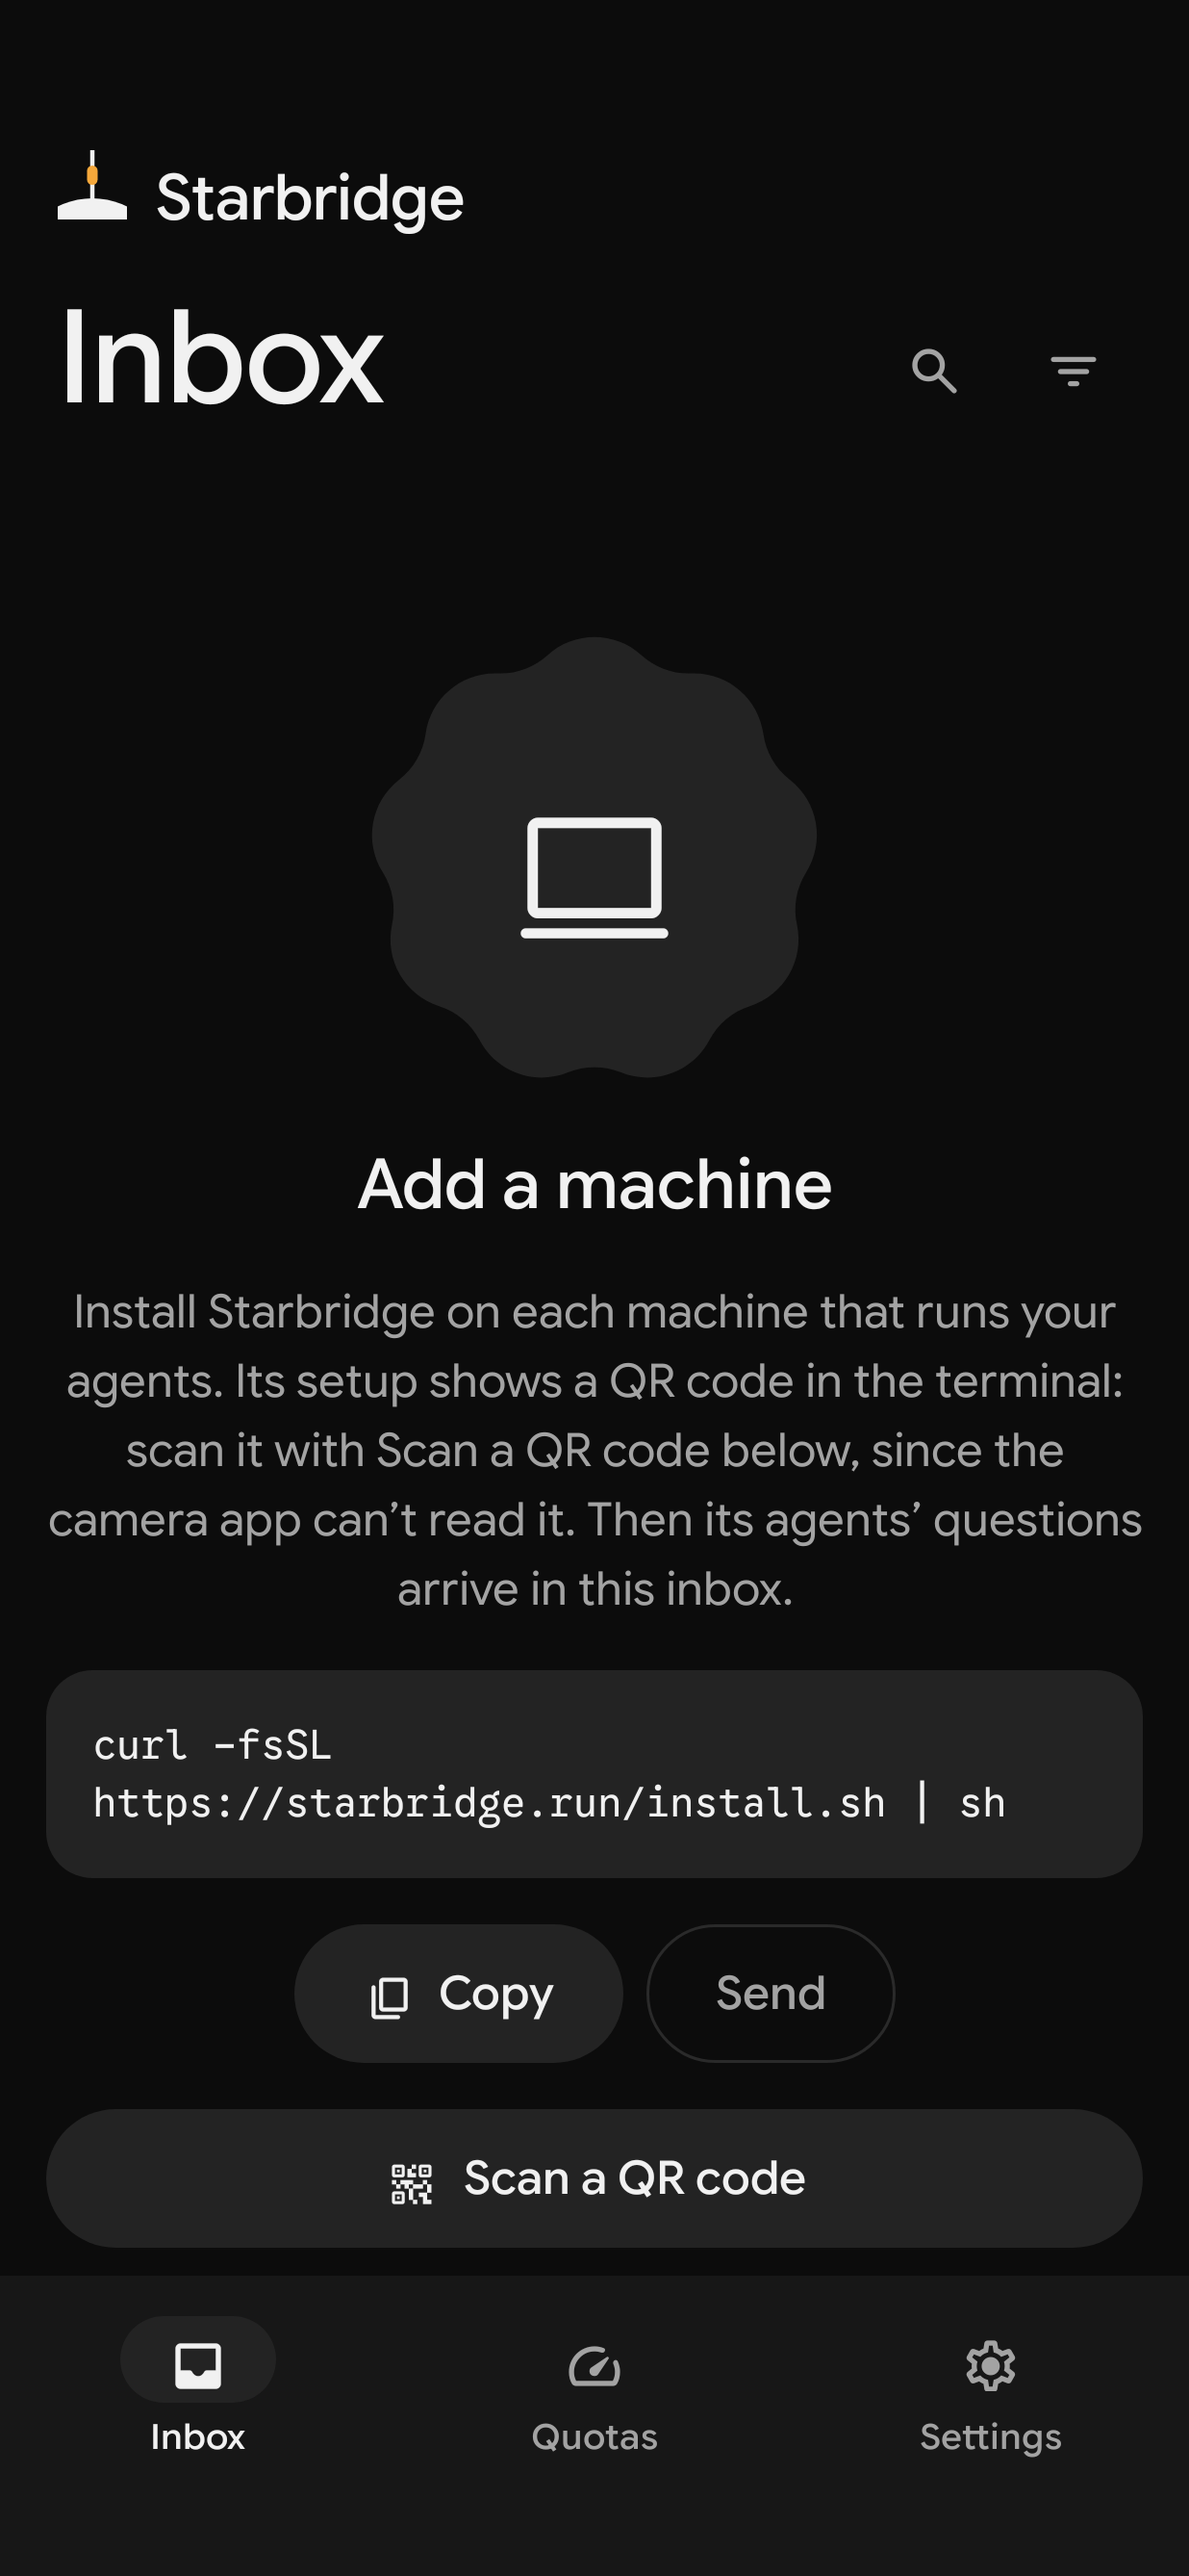
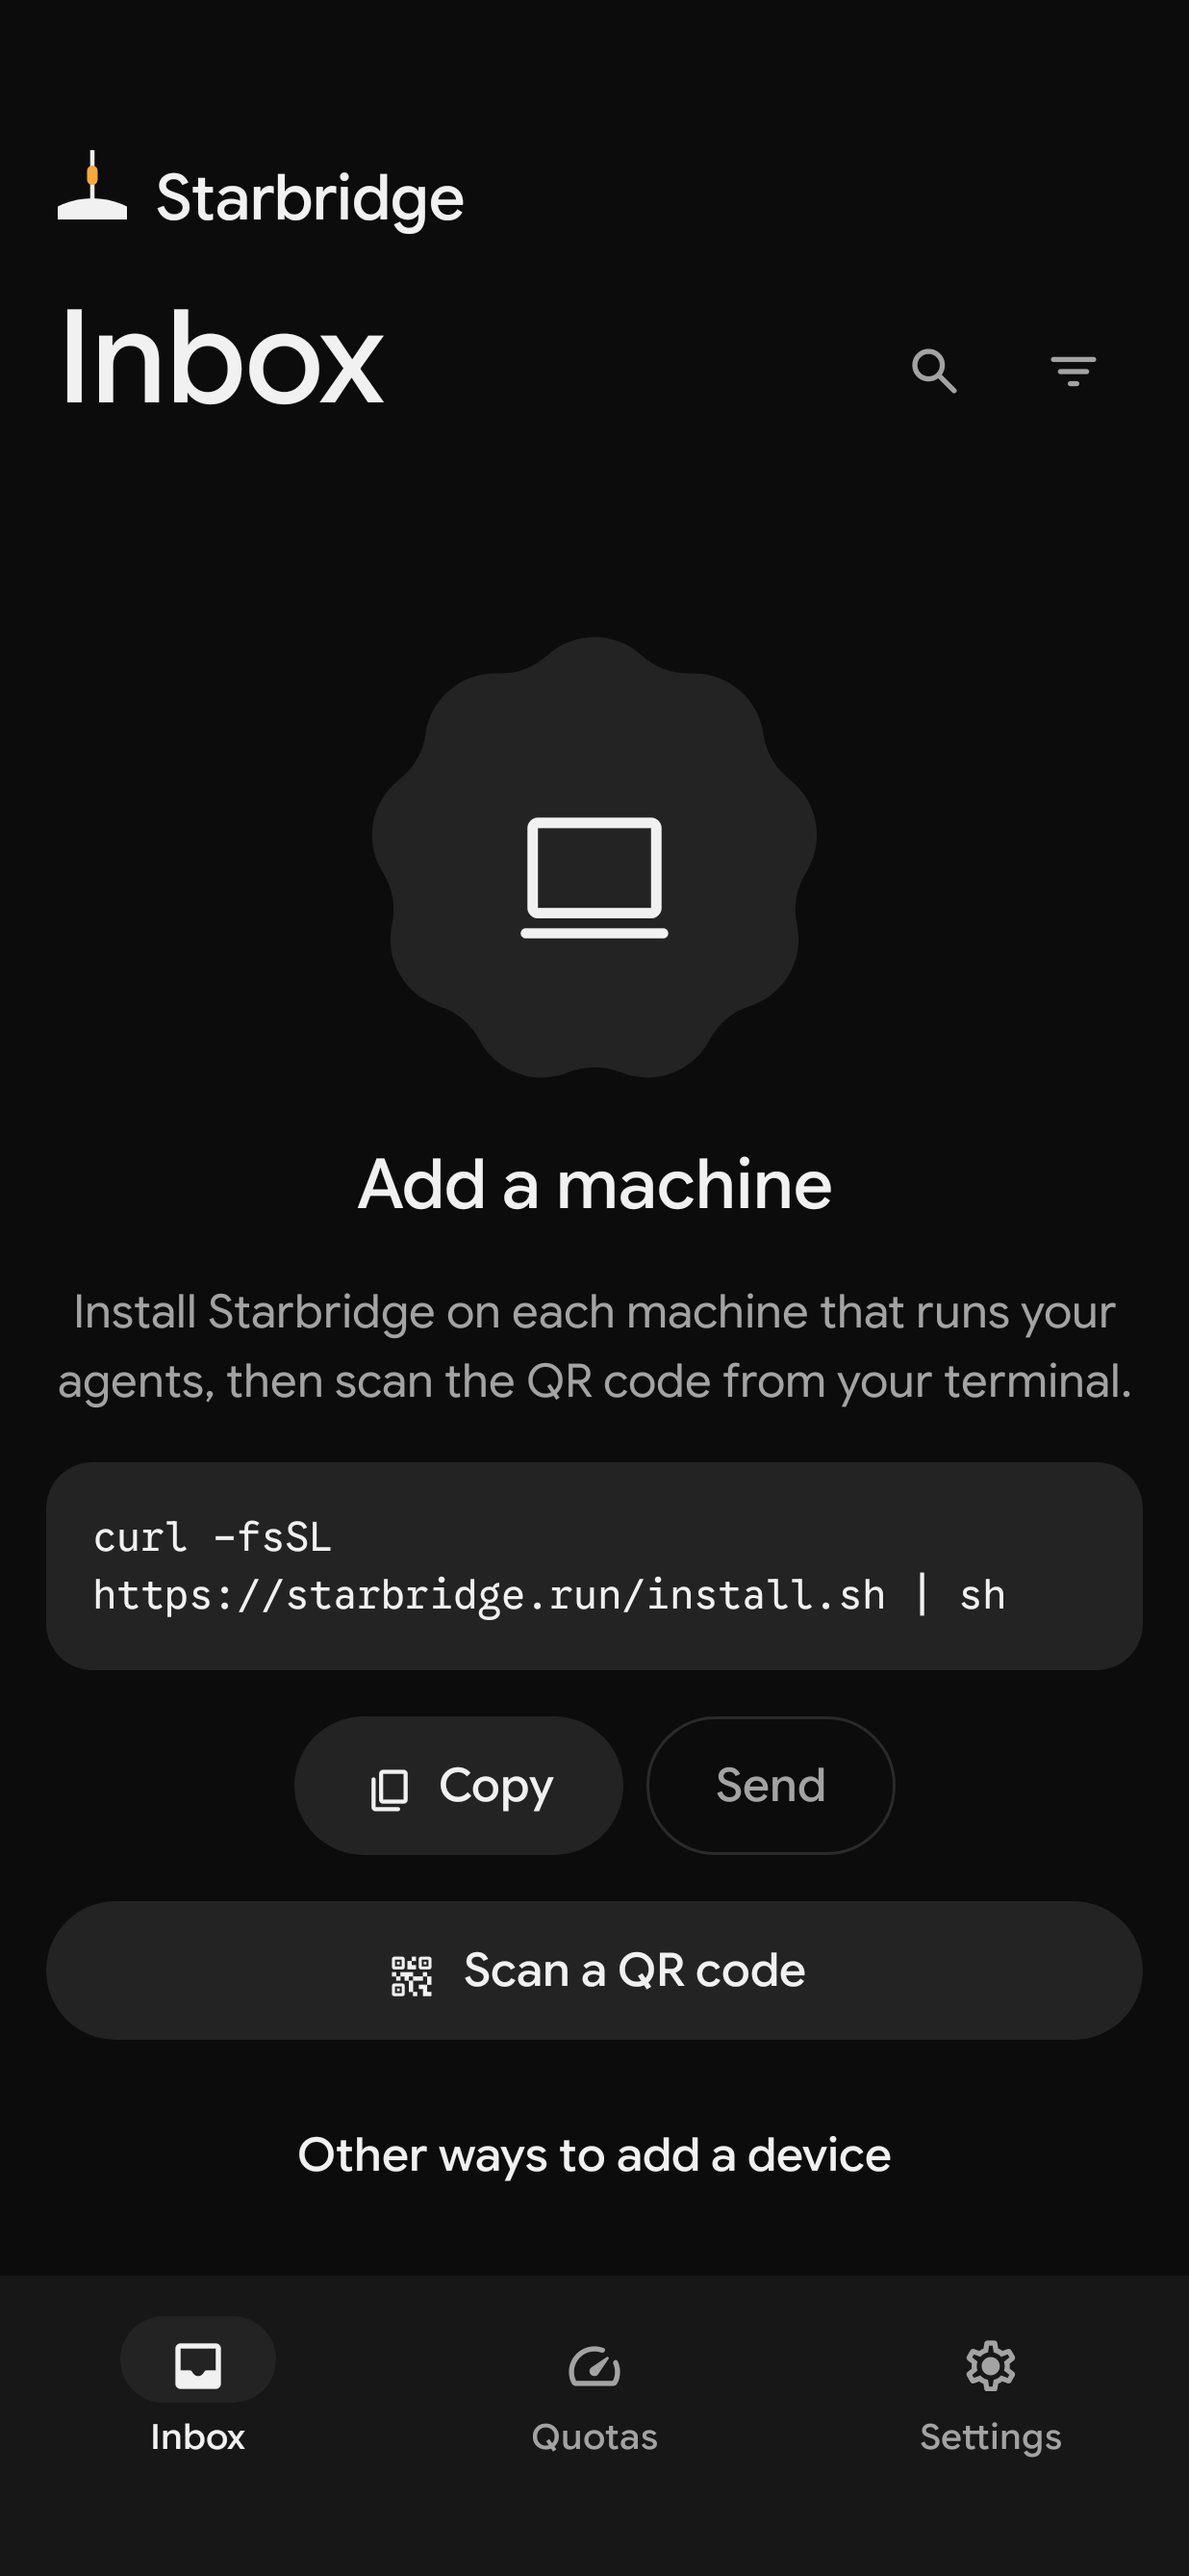
Empty inbox: only the instruction; setup names Add a device (#1367)
The empty inbox now says what to do and nothing more. Setup's line for
typing the code named Devices, a list; the page is Add a device.

diff --git a/android/app/src/main/kotlin/dev/starbridge/app/ui/inbox/InboxScreen.kt b/android/app/src/main/kotlin/dev/starbridge/app/ui/inbox/InboxScreen.kt
@@ -483,7 +483,7 @@ private fun NoMachine(onScan: (String) -> Unit, onAddDevice: () -> Unit) {
         }
         Text("Add a machine", style = StarbridgeTheme.type.heading, color = MaterialTheme.colorScheme.onSurface, textAlign = TextAlign.Center, modifier = Modifier.semantics { heading() })
         Text(
-            "Install Starbridge on each machine that runs your agents. Its setup shows a QR code in the terminal: scan it with Scan a QR code below, since the camera app can’t read it. Then its agents’ questions arrive in this inbox.",
+            "Install Starbridge on each machine that runs your agents, then scan the QR code from your terminal.",
             style = StarbridgeTheme.type.body,
             color = MaterialTheme.colorScheme.onSurfaceVariant,
             textAlign = TextAlign.Center,
@@ -507,7 +507,7 @@ private fun NoMachine(onScan: (String) -> Unit, onAddDevice: () -> Unit) {
                 modifier = Modifier.heightIn(min = Sizes.tap),
             ) { Text("Send", style = StarbridgeTheme.type.action) }
         }
-        // As in Devices, and above the fold: a machine's QR code, else its code typed under Add a device.
+        // Above the fold, as in Devices: the scanner, else Add a device to type the code.
         FilledTonalButton(
             onClick = scan,
             colors = ButtonDefaults.filledTonalButtonColors(containerColor = MaterialTheme.colorScheme.surfaceContainerHighest, contentColor = MaterialTheme.colorScheme.onSurface),

diff --git a/web/src/components/Inbox.tsx b/web/src/components/Inbox.tsx
@@ -948,12 +948,11 @@ function NoMachine() {
     <div className={s.noMachine}>
       <h2 className="t-heading">Add a machine</h2>
       <p className={`t-small ${s.noMachineText}`}>
-        Install Starbridge on each machine that runs your agents. Its setup shows a pairing code in
-        the terminal: type it under Add a device below. Then its agents' questions arrive in this
-        inbox.
+        Install Starbridge on each machine that runs your agents, then enter the pairing code from
+        your terminal.
       </p>
       <InstallBox />
-      {/* Its code, typed or from a pairing link, one tap away (#1367). */}
+      {/* Where the pairing code goes, one tap away (#1367). */}
       <div>
         <Link href="/settings/devices/add" className={`t-meta ${ui.btn} ${ui.sm}`}>
           Add a device

diff --git a/cli/src/pair.ts b/cli/src/pair.ts
@@ -87,7 +87,7 @@ export async function pair(
   ctx.out("  Scan this with the Starbridge app:");
   for (const line of terminalQr(machineQrText(server, code, checkKey))) ctx.out(line);
   ctx.out(`  No app? Open  ${link}`);
-  ctx.out("  Or type the code under Devices in the app or web page. It expires in 10 minutes.");
+  ctx.out("  Or type the code under Add a device in the app or web page. It expires in 10 minutes.");
 
   let result: { approval: unknown; token?: string } | undefined;
   while (!result) {

diff --git a/spec/machines.md b/spec/machines.md
@@ -90,9 +90,10 @@
   the inbox shows "Add a machine" with the install command in place of "Nothing needs you", and
   under it the way to pair the machine that setup then shows: Scan a QR code on Android, then
   Other ways to add a device, and Add a device on the web, which has no scanner. Each opens the
-  same Add a device as Devices, with the same words. Android's text says to scan the terminal's QR
-  code with that button, since the camera app can't read it (#795): a tester pointed his camera
-  at it, saw nothing happen, then had to find the scanner under Settings, then Devices.
+  same Add a device as Devices, with the same words. Android's text says to scan the QR code from
+  the terminal: a tester pointed his camera at it, which reads no app's code (#795), then had to
+  find the scanner under Settings, then Devices. The text gives only the instruction (owner's
+  rule): the screen needs no why.
 - **Setup** (`cli/src/setup/`; #68, #239, #245) installs the CodexBar release this Starbridge
   release pins, taking the static musl build where the glibc one would not start, and
   `starbridge update` moves that install to the new binary's pin (#568). Each release PR pins
